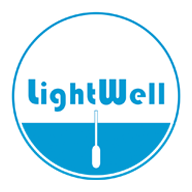
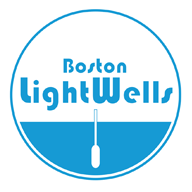
added new changes to app package

diff --git a/www/templates/tab-aboutUs.html b/www/templates/tab-aboutUs.html
@@ -1,4 +1,4 @@
-<ion-view view-title="AboutUs">
+<ion-view view-title="About Us">
   <ion-content>
     <div class="list card">
       <div class="item">
@@ -27,7 +27,7 @@
             <h5 class ="externalLink-text">Boston Ground Water Trust</h5>
           </div>
           <div class="externalLink2">
-            <img src="img/LinkLogo-LightWell_100.png" class="img-responsive img5" ng-click="model.goToLightWell()">
+            <img src="img/LinkLogo-BostonLightWells_100.png" class="img-responsive img5" ng-click="model.goToLightWell()">
             <h6 class ="externalLink-text">LightWell Project</h6>
           </div>
         </div>

diff --git a/www/templates/tab-guide.html b/www/templates/tab-guide.html
@@ -1,4 +1,4 @@
-<ion-view view-title="User Guides">
+<ion-view view-title="Guide For BostonLightWell">
   <ion-content>
     <!--<div class="list card">
       <div class="item">
